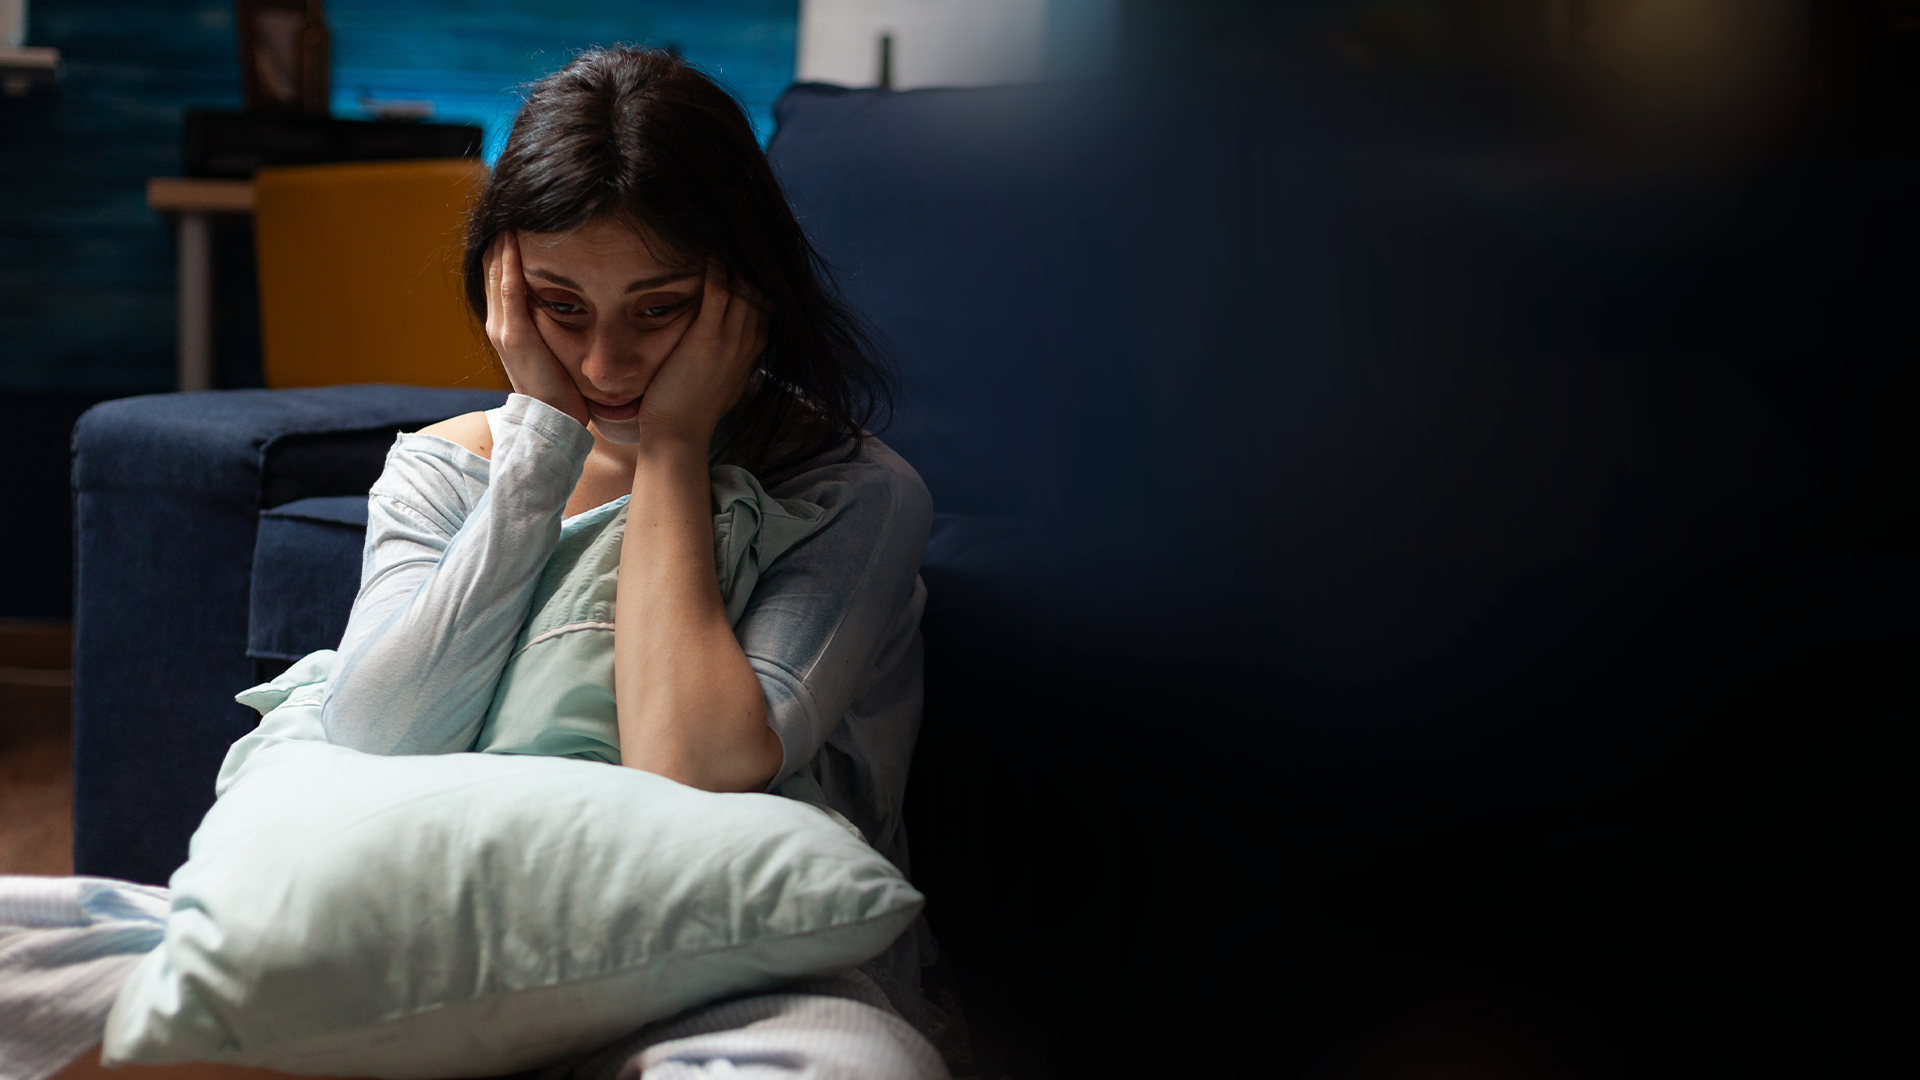
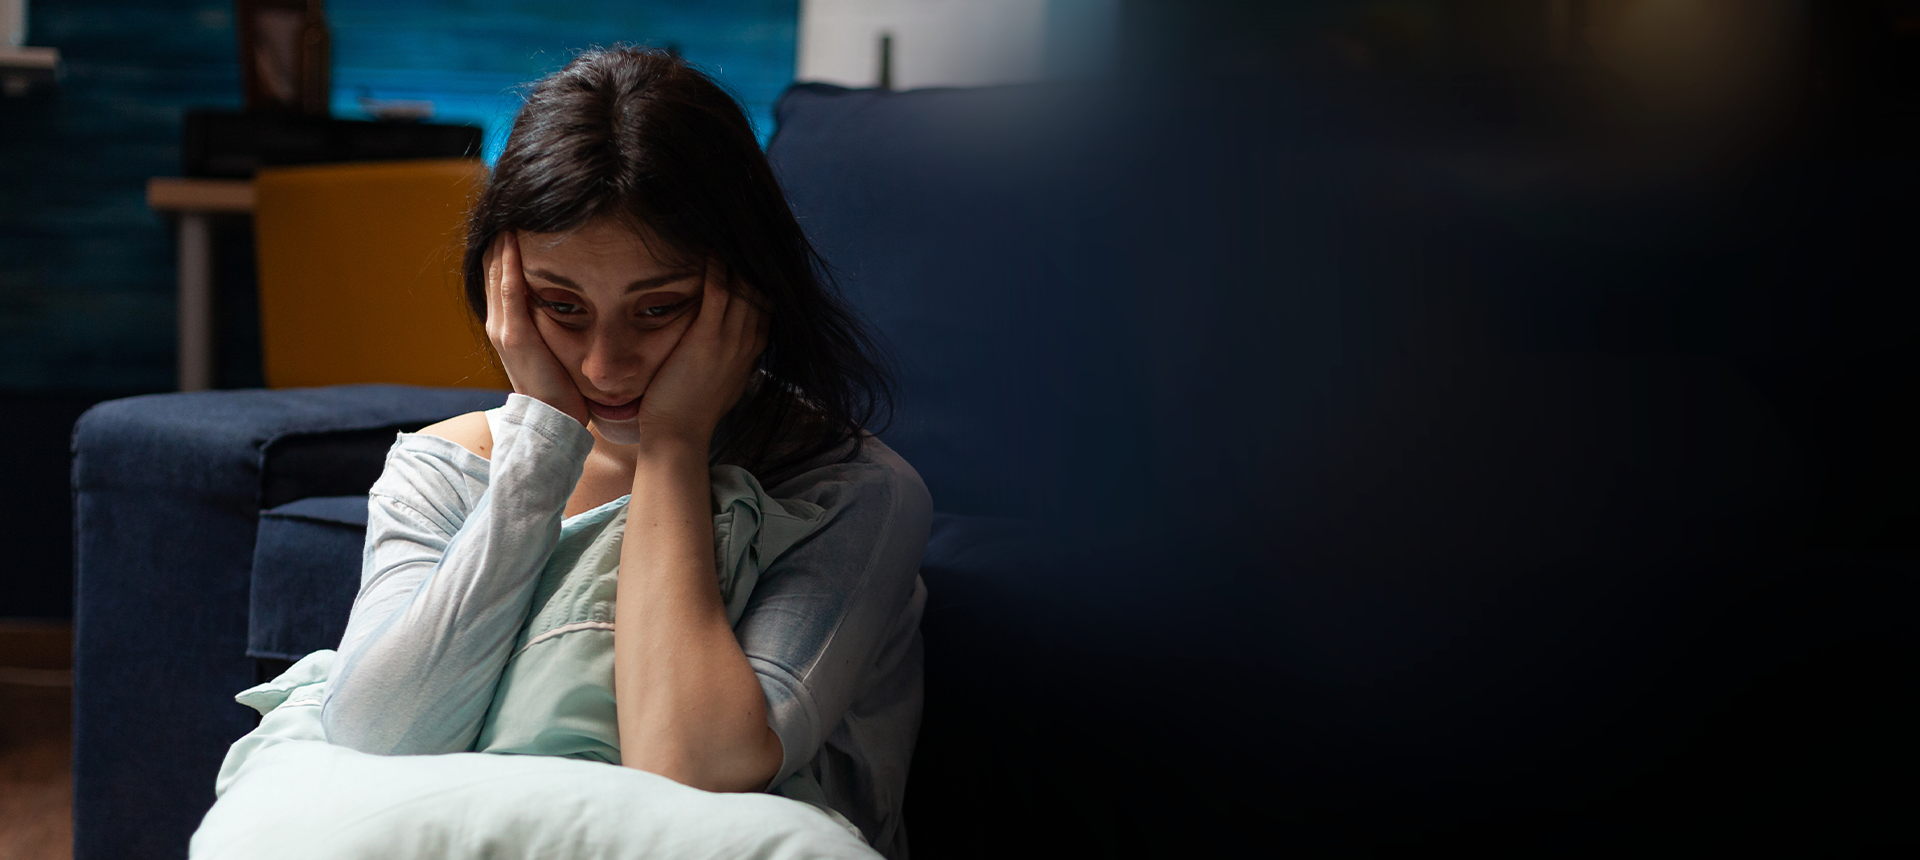
Section2
Textbox and Background image.

Changed region(s): [[0.0, 0.0302, 0.5938, 1.0], [0.0, 0.0302, 0.0312, 0.1209]]

diff --git a/index.html b/index.html
@@ -32,8 +32,17 @@
         </div>
         </section>
         <section class="section2">
-            <p>aaaaaaaaaaaaaaaaaaaaaaaaaaaaaaaaaaaaaaaaaaaaaaaaaaaaaaaaaaaaaaaaaaaaaaaaaaaaaaaaaaaaaaaaaaaaaaaa</p>
-
+        <div class="container">
+           <div class="textbox">
+            <h2>
+                Veja se não é exatamente<br>essa a sua realidade hoje:
+            </h2>
+            <p>Você não consegue se concentrar no trabalho, está<br>estressante chega em casa, deita no travesseiro e<br> não consegue dormir por que a sua mente não<br>para 1 minuto</p>
+            <p>Sente os batimentos acelerados, falta de ar, não tem<br>animo para nada...você sente como se fosse morrer.</p>
+            </div>
+            <img src="imagens/section2-mulher.png" 
+        
+        </div>
         </section>
         
     </main>

diff --git a/estilo/style.css b/estilo/style.css
@@ -104,8 +104,34 @@ background-color: rgb(11, 172, 184);
 }
 
 .section2{
-    margin-top:97px;
+    margin:0px;
+    margin-top:85px;
     padding:0px;
-    background-color:black;
-    width:100vw;
+    width:98vw;
 }
+.section2 img{
+    width:98.9vw;
+    
+    padding:0px;
+    margin-left:-10px;
+    
+ 
+}
+.container{
+position:relative;
+display:inline-block;
+}
+.textbox{
+    position:absolute;
+    top:13%;
+    left:100%;
+    box-shadow:1px 1px 2px 5px rgba(0, 0, 0, 0.192);
+    text-align:center;
+    border-radius: 45px;
+    width:35vw;
+    height:53vh;
+    padding:0px;
+    margin-left:15px;
+    background-image:linear-gradient(to bottom, rgba(0, 0, 0, 0.397), rgba(255, 255, 255, 0.062));
+}
+
